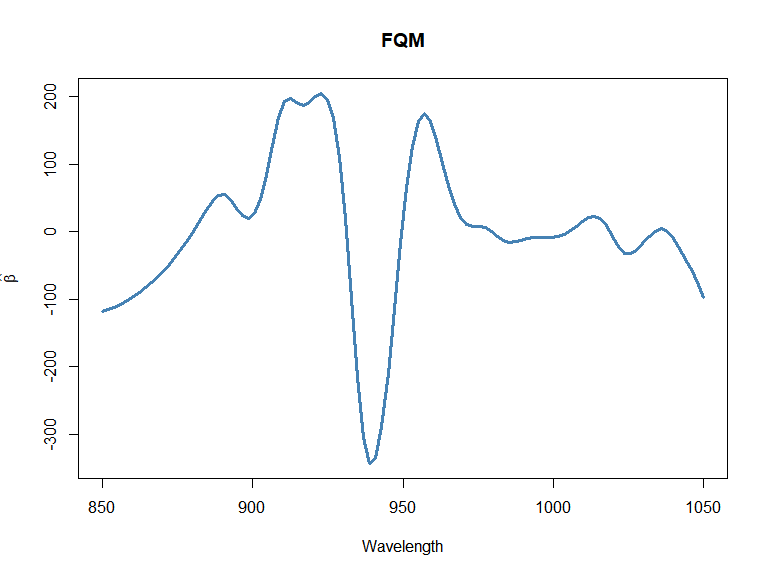
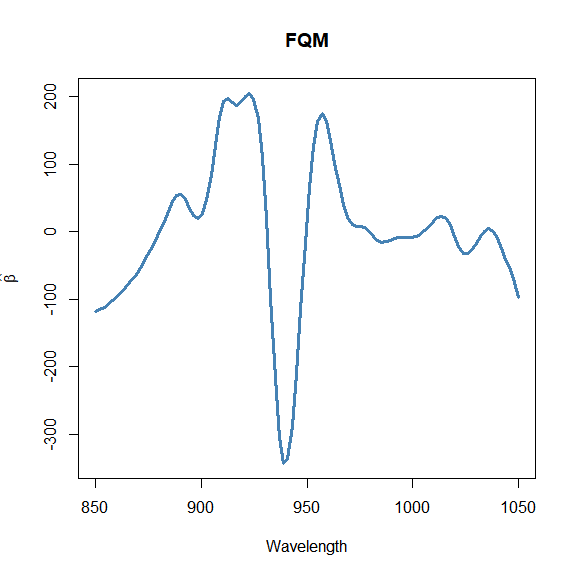
test

diff --git a/README.md b/README.md
@@ -100,11 +100,7 @@ Beta parameter from FLM fit is displayed below.
 
 Beta and gamma parameters from FQM fit are displayed below.
 
-![](README_files/figure-markdown_strict/robust%20est%20beta%20gamma%20FQM-1.png)
-
-    ## [1] -403
-
-![](README_files/figure-markdown_strict/robust%20est%20beta%20gamma%20FQM-2.png)
+![](README_files/figure-markdown_strict/robust%20est%20beta%20gamma%20FQM-1.png)![](README_files/figure-markdown_strict/robust%20est%20beta%20gamma%20FQM-2.png)
 
 Comparative beta from FLM and FQM.
 
